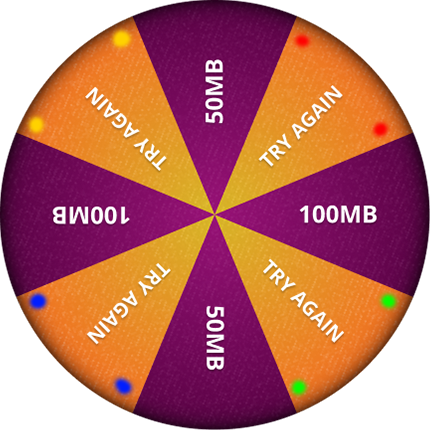
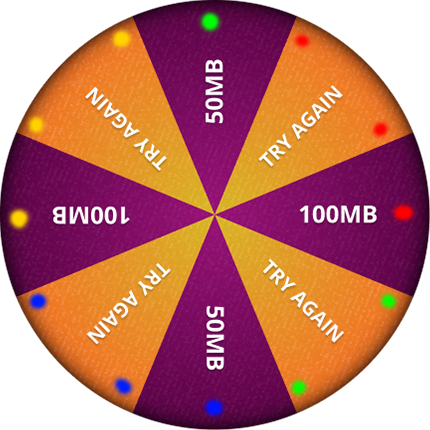
Add Wheel Rotation feature according to the DB input

diff --git a/scripts/game.js b/scripts/game.js
@@ -35,40 +35,85 @@ function SpinWheel()
     //For Testing
     resetGame();
 
+
+    const DB_VALUE = "100MB";
+
+    let resultRotation = 0; 
+
+    switch(DB_VALUE)
+    {
+        case "TRY_AGAIN":
+            resultRotation = GetRandom_TryAgain_Rotations();
+            break;
+
+        case "100MB":
+            resultRotation = GetRandom_100MB_Rotations();
+            break;
+
+        case "50MB":
+            resultRotation = GetRandom_50MB_Rotations();
+            break;
+    }
+
+
     gsap.fromTo('.innerWheel',{rotation: 0, ease: 'power4.in'},
-                 {duration: 4, rotation: GetRandomTryAgainRotations(), ease: 'power4.out'});
+                 {duration: 4, rotation: resultRotation, ease: 'power4.out'});
 
+    setTimeout(ShowResult, 4500, DB_VALUE);
 
-    //Red Try-Again values
-    //Min : 2814
-    //Max : 2856
+}
 
-    //Yellow Try-Again values
-    //Min : 2904
-    //Max : 2946
-
-    //Blue Try-Again values
-    //Min : 2994
-    //Max : 3036
-
-    //Green Try-Again values
-    //Min : 3084
-    //Max : 3126
+function ShowResult(result)
+{
+    if(result == "TRY_AGAIN")
+    {
+        alert("Please Try-Again you didn't win any data package");
+    }
+    else
+    {
+        alert(`Congratulations you won ${result} data bundle`);
+    }
 }
 
 
-function GetRandomTryAgainRotations()
+function GetRandom_TryAgain_Rotations()
 {
 
-    const TryAgain_1 = new randomRot(2814, 2856);
-    const TryAgain_2 = new randomRot(2904, 2946);
-    const TryAgain_3 = new randomRot(2994, 3036);
-    const TryAgain_4 = new randomRot(3084, 3126);
+    const TRYAGAIN_1 = new randomRot(2814, 2856);
+    const TRYAGAIN_2 = new randomRot(2904, 2946);
+    const TRYAGAIN_3 = new randomRot(2994, 3036);
+    const TRYAGAIN_4 = new randomRot(3084, 3126);
 
-    let tryAgainSlots = new Array(TryAgain_1, TryAgain_2, TryAgain_3, TryAgain_4);
-    let randomTryAgainSlot = getRandomInt(0, tryAgainSlots.length);
+    let slots = new Array(TRYAGAIN_1, TRYAGAIN_2, TRYAGAIN_3, TRYAGAIN_4);
+    let randomSlot = getRandomInt(0, slots.length);
 
-    return tryAgainSlots[randomTryAgainSlot].GetRandomRotation();
+    return slots[randomSlot].GetRandomRotation();
+
+}
+
+function GetRandom_100MB_Rotations()
+{
+
+    const D100MB_1 = new randomRot(2769, 2811);
+    const D100MB_2 = new randomRot(2949, 2991);
+
+    let slots = new Array(D100MB_1, D100MB_2);
+    let randomSlot = getRandomInt(0, slots.length);
+
+    return slots[randomSlot].GetRandomRotation();
+
+}
+
+function GetRandom_50MB_Rotations()
+{
+
+    const D50MB_1 = new randomRot(2679, 2721);
+    const D50MB_2 = new randomRot(2859, 2901);
+
+    let slots = new Array(D50MB_1, D50MB_2);
+    let randomSlot = getRandomInt(0, slots.length);
+
+    return slots[randomSlot].GetRandomRotation();
 
 }
 
